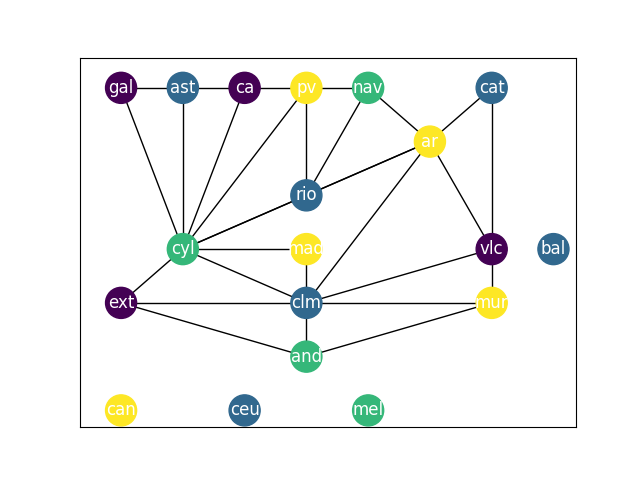
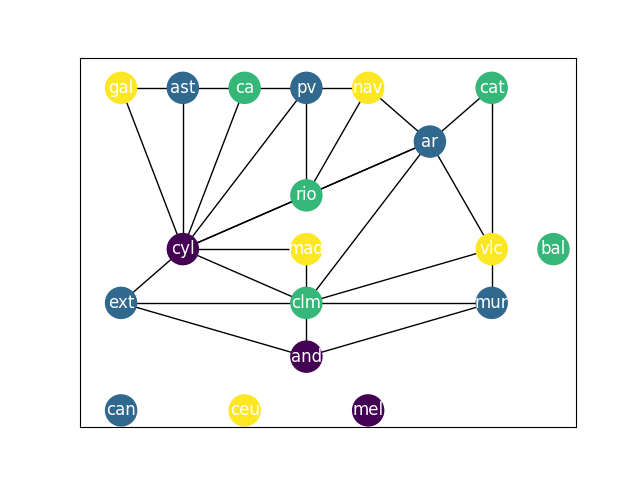
Fin coloreado mapas v2

diff --git a/restricciones/map_coloring.py b/restricciones/map_coloring.py
@@ -10,6 +10,8 @@ import dwave.inspector
 
 
 ########### CONSTANTES ###########
+#True =Quimera , False =Pegasus
+QUIMERA_PEGASUS=True
 #Ponemos las posiciones del nodo para representar el mapa de espana de una manera mas organizada
 node_positions = {"can": (0, 0),
                   "ceu": (2, 0),
@@ -85,19 +87,18 @@ def plot_map(sample):
 ########### Main ###########
 #Segun el teorema de los 4 colores podremos pintar cualquier mapa planar con 4 colores
 one_color_configurations = {(0, 0, 0, 1), (0, 0, 1, 0), (0, 1, 0, 0), (1, 0, 0, 0)}
-#Obtenemos la longitud de los posibles colores
-colours = len(one_color_configurations)
 # Creamos un CSP
 csp = dwavebinarycsp.ConstraintSatisfactionProblem(dwavebinarycsp.BINARY)
 #A cada comunidad autonoma le add los 4 posibles que pueda tener (0,1,2,3) luego se pasaran a colroes
 for ca in ccaa:
-    variables = [ca+"_"+str(i) for i in range(colours)]
+    variables = [ca+"_"+str(i) for i in range(len(one_color_configurations))]
+    print(variables)
     #Y add a las restricciones de que solamente puede tener un color
     csp.add_constraint(one_color_configurations, variables)
 #Para cada pareja de vecinos les asignamos una posible combinacion de colores y add la restriccion
 for neighbour in neighbours:
     ca1, ca2 = neighbour
-    for i in range(colours):
+    for i in range(len(one_color_configurations)):
         variables = [ca1+"_"+str(i), ca2+"_"+str(i)]
         csp.add_constraint(different_colours, variables)
 
@@ -105,17 +106,21 @@ for neighbour in neighbours:
 bqm = dwavebinarycsp.stitch(csp)
 
 
-#Cogemos un sampler en este caso probaremos con Pegasus
-sampler = EmbeddingComposite(DWaveSampler(solver={'topology__type': 'pegasus'}))  
-#Realizamos 100 lecturas
+#Cogemos un sampler en este caso probaremos con Pegasus o Quimera
+if(QUIMERA_PEGASUS):
+    sampler = EmbeddingComposite(DWaveSampler(solver='DW_2000Q_6'))    
+else:
+    sampler = EmbeddingComposite(DWaveSampler(solver={'topology__type': 'pegasus'}))  
 response = sampler.sample(bqm, num_reads=100)    
 sample = response.first.sample
+
+#Realizamos 100 lecturas
+
 #Comprobamos si la de menor energia cumple con nuestras restricciones y si las cumple pintamos
 if not csp.check(sample):          
     print("Failed to color map")
 else:
     print("Problema resuelto, guardando el mapa..")
-    print(response)
     dwave.inspector.show(response)
     plot_map(sample)
 
